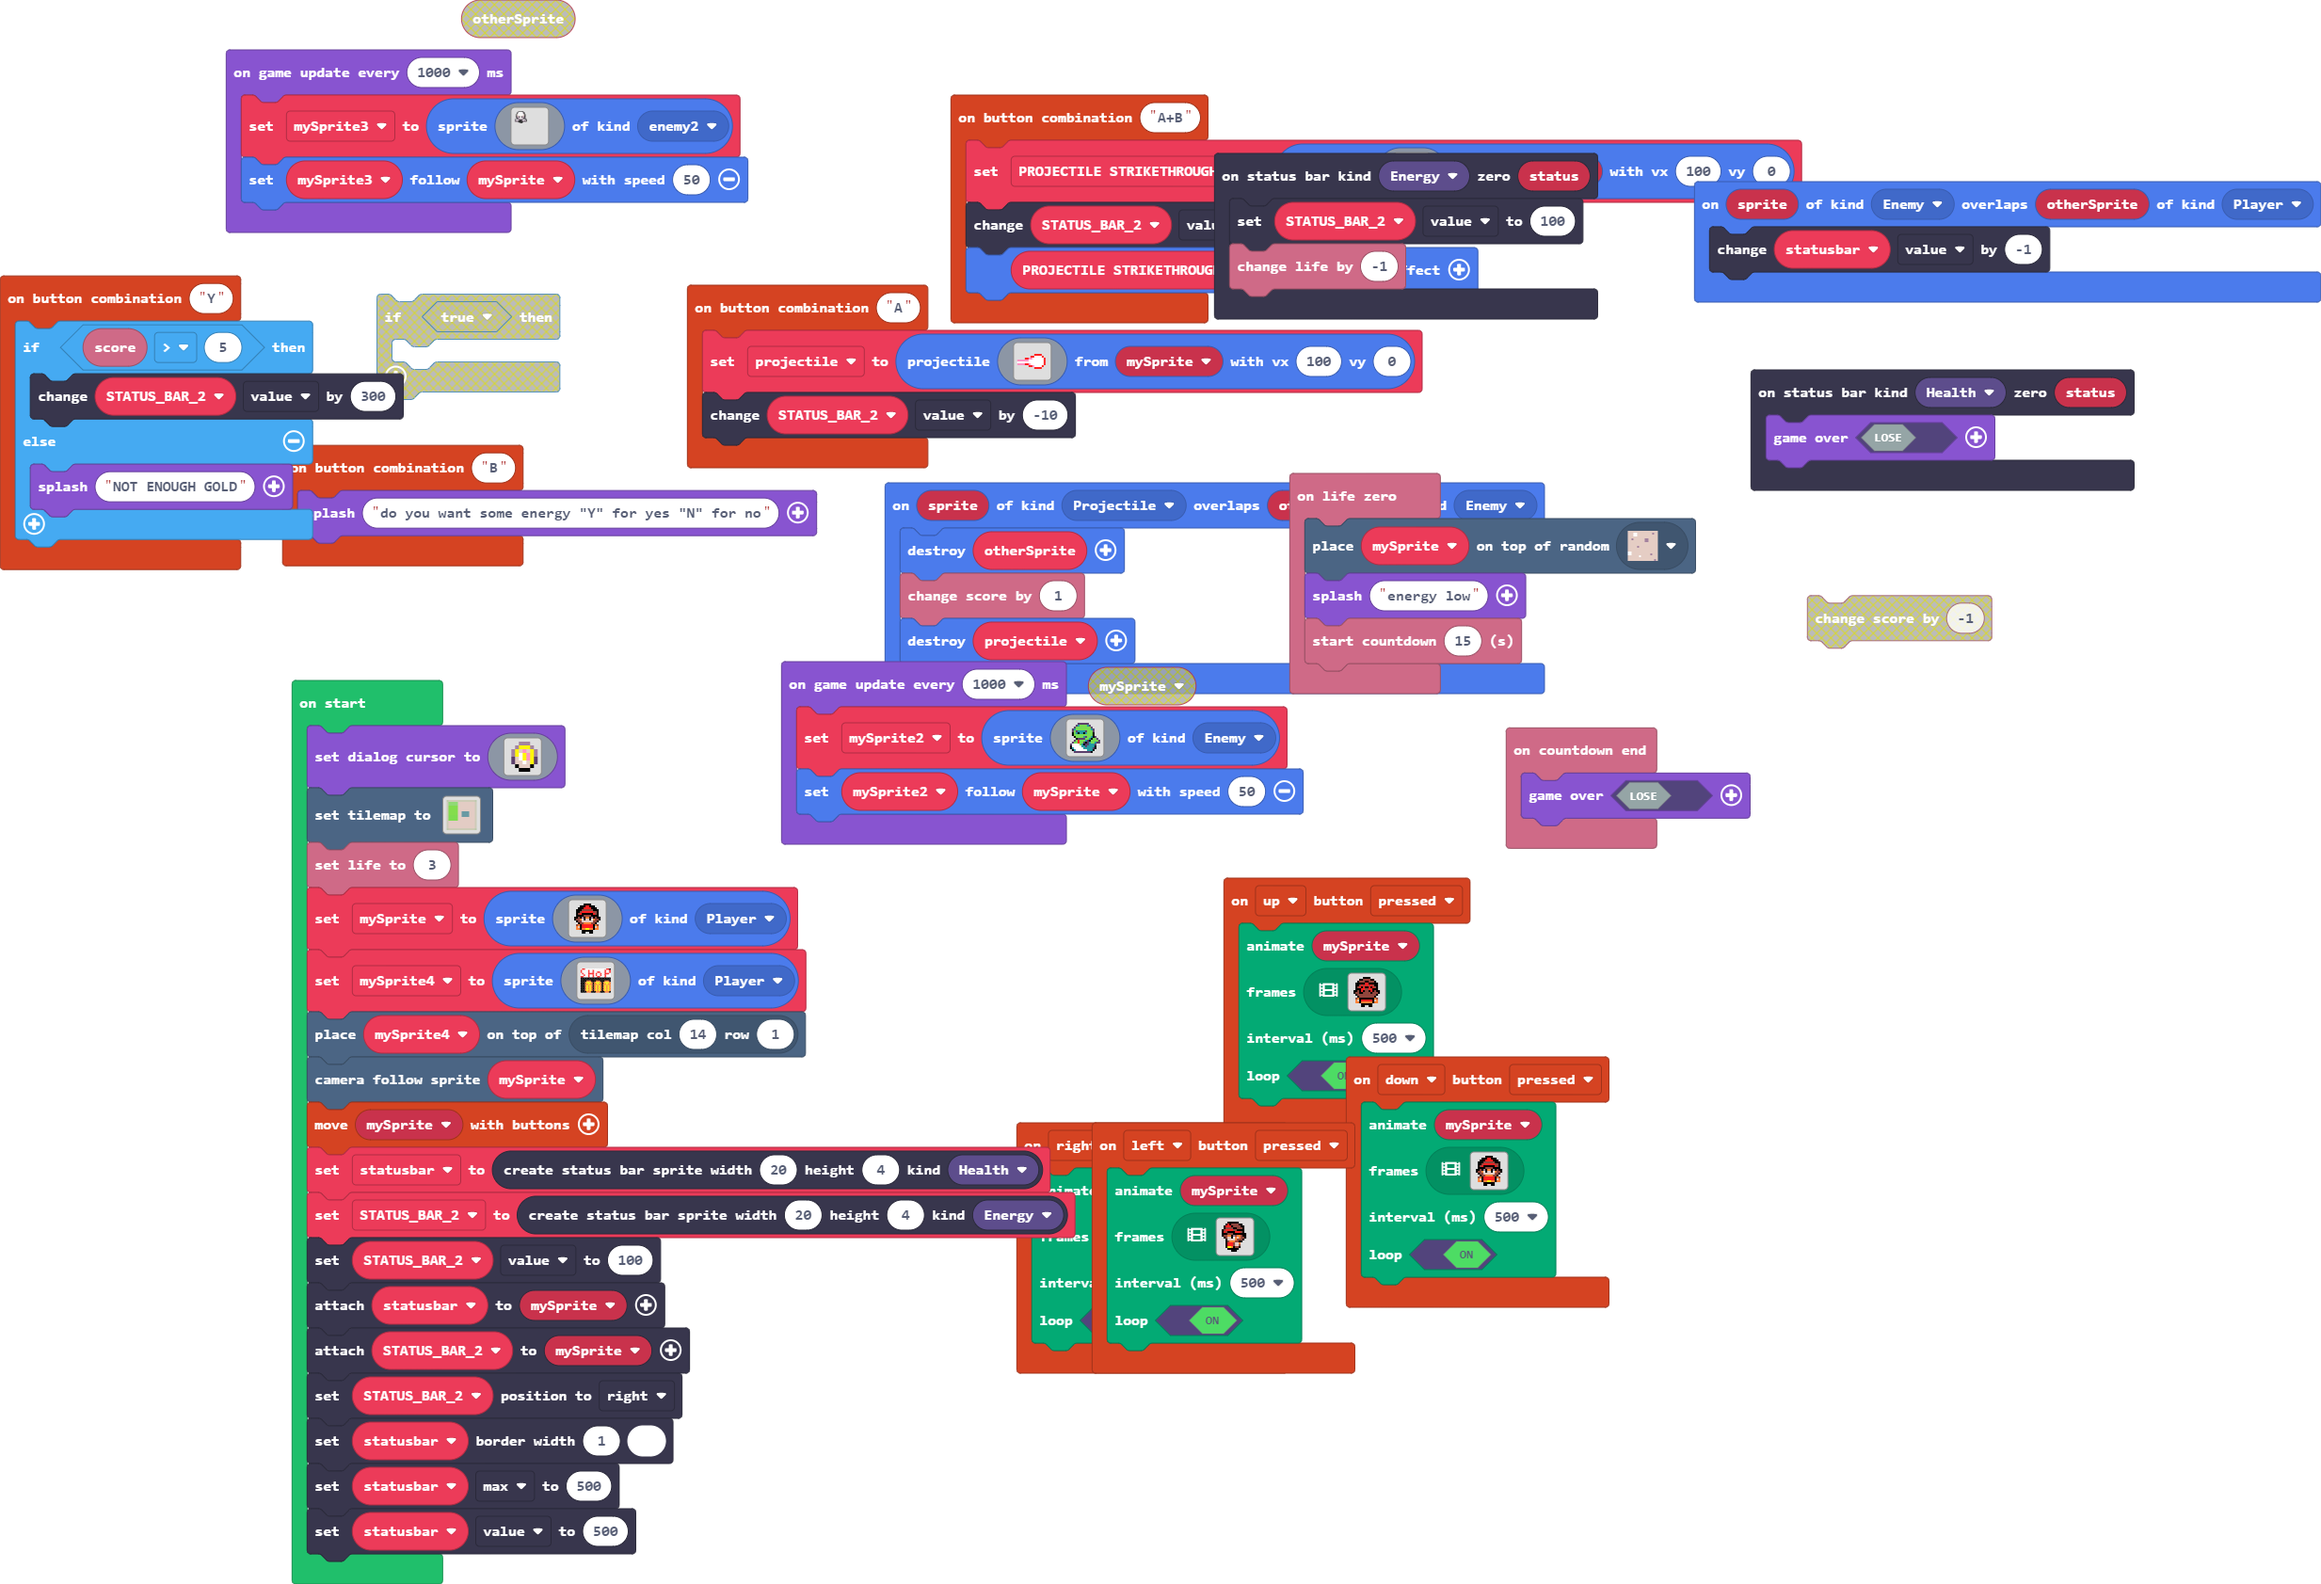
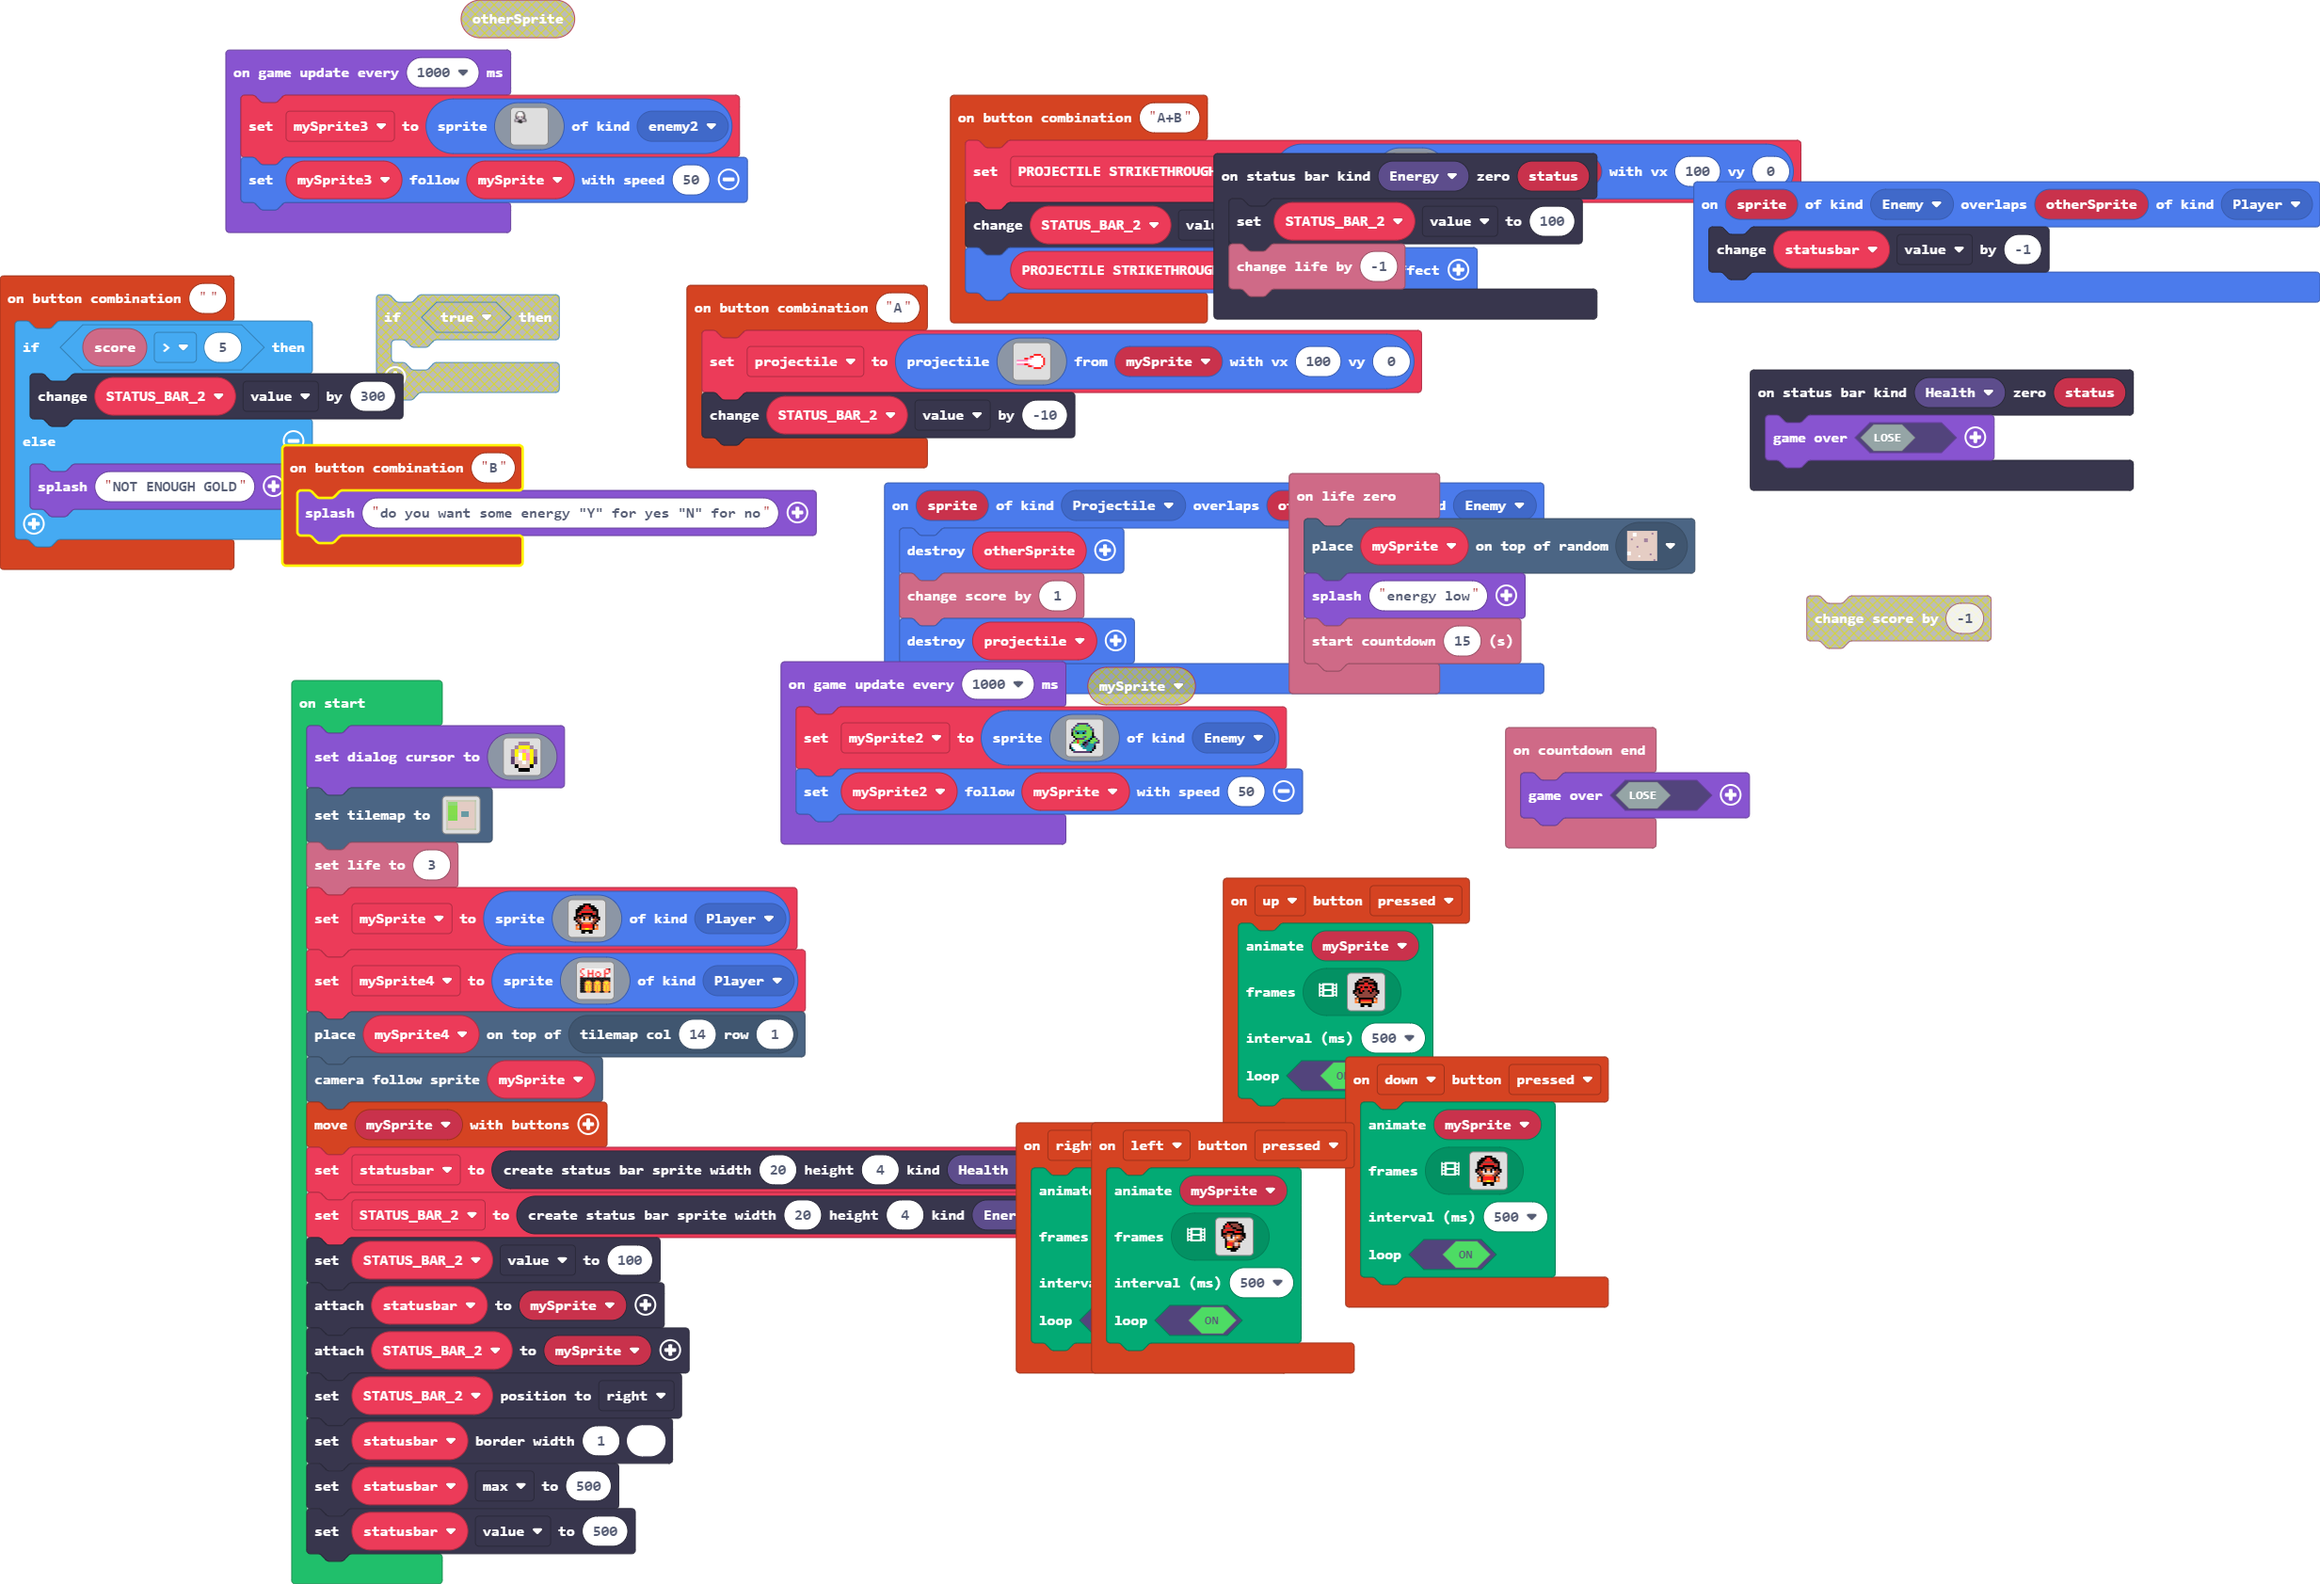
Update main.blocks, main.ts

diff --git a/main.ts b/main.ts
@@ -3,6 +3,13 @@ namespace SpriteKind {
     export const ENERGY_ABSORBER = SpriteKind.create()
     export const enemy2 = SpriteKind.create()
 }
+controller.combos.attachCombo("", function () {
+    if (info.score() > 5) {
+        STATUS_BAR_2.value += 300
+    } else {
+        game.splash("NOT ENOUGH GOLD")
+    }
+})
 controller.up.onEvent(ControllerButtonEvent.Pressed, function () {
     animation.runImageAnimation(
     mySprite,
@@ -344,13 +351,6 @@ info.onLifeZero(function () {
 })
 controller.combos.attachCombo("B", function () {
     game.splash("do you want some energy \"Y\" for yes \"N\" for no")
-})
-controller.combos.attachCombo("Y", function () {
-    if (info.score() > 5) {
-        STATUS_BAR_2.value += 300
-    } else {
-        game.splash("NOT ENOUGH GOLD")
-    }
 })
 statusbars.onZero(StatusBarKind.Energy, function (status) {
     STATUS_BAR_2.value = 100
